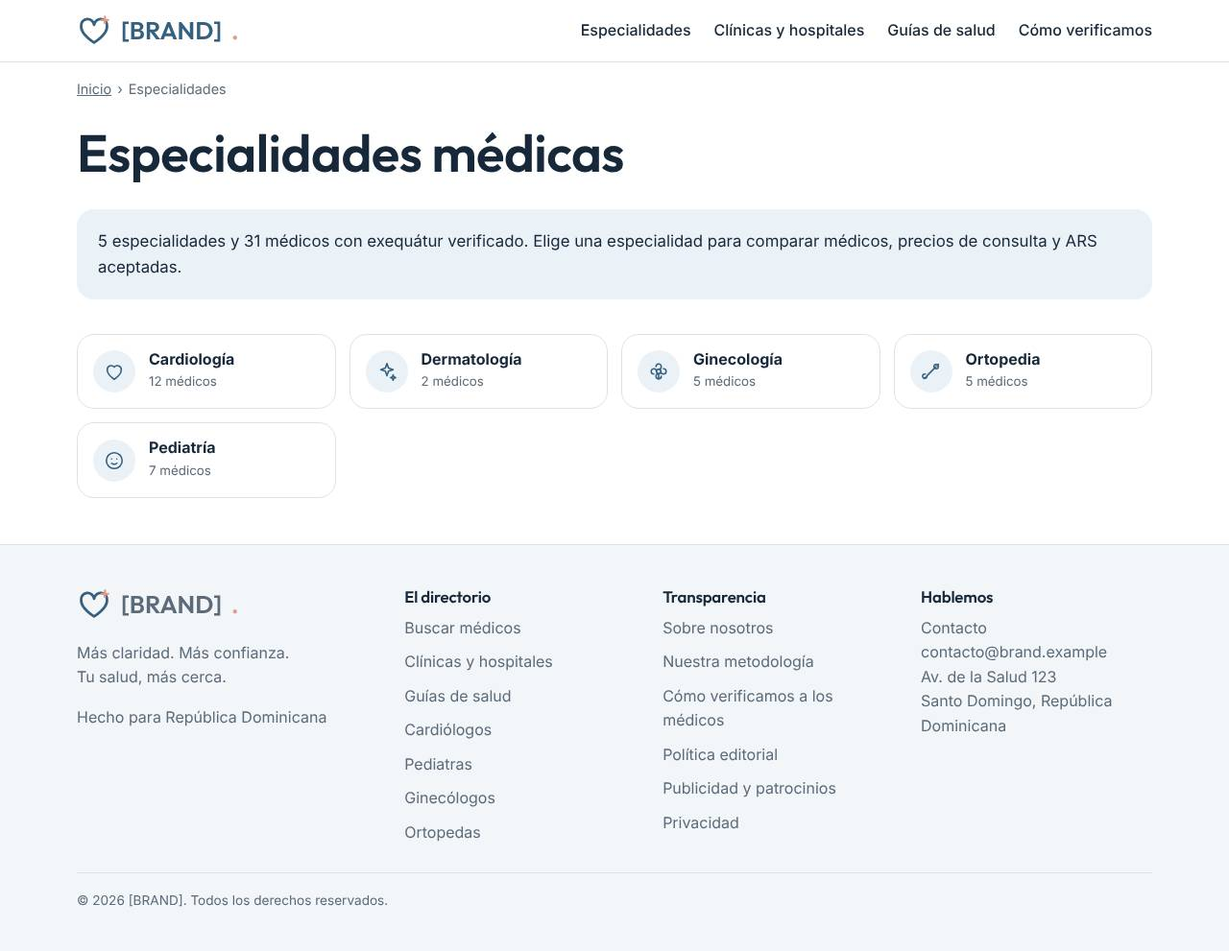
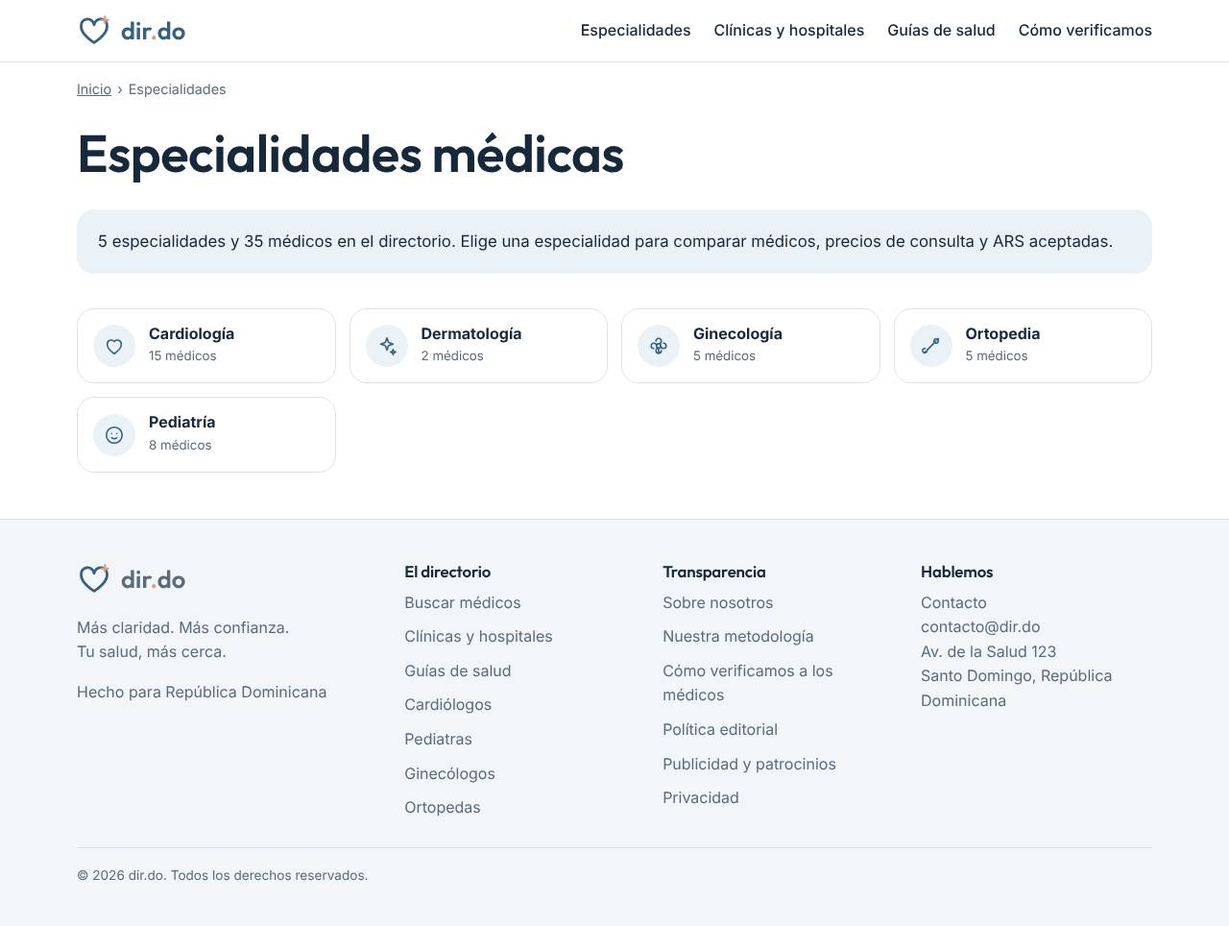
Brand and domain: dir.do (wordmark with coral dot), honest home copy for verified vs informational profiles, regenerated mockups
Claude-Session: https://claude.ai/code/session_01DZcLDKAdGPDCpaXuxE1Ynz

diff --git a/src/data/trust.ts b/src/data/trust.ts
@@ -9,14 +9,14 @@ export const trustPages: TrustPageData[] = [
   { slug: 'metodologia', title: 'Nuestra metodología', description: 'Cómo recopilamos, calculamos y actualizamos los datos del directorio.',
     body: ['Los precios, ARS y horarios son declarados por cada profesional o centro y revisados por nuestro equipo.', 'Cuando mostramos estadísticas (por ejemplo, el rango de precios de una ciudad), indicamos el tamaño de la muestra (n) y la fecha de los datos.', 'Una página de especialidad y ciudad solo se publica para buscadores cuando tiene al menos 5 profesionales verificados.'] },
   { slug: 'como-verificamos', title: 'Cómo verificamos a los médicos', description: 'Revisamos exequátur, especialidad y datos de contacto antes de publicar un perfil.',
-    body: ['Verificamos el exequátur de cada profesional con el servicio oficial de consulta de exequátur y guardamos la fecha y la evidencia de la revisión.', 'Revisamos la pertenencia al Colegio Médico Dominicano cuando aplica y confirmamos los datos de contacto.', 'Repetimos la verificación al menos cada 6 meses. Los perfiles con revisión vencida se marcan para actualización.'] },
+    body: ['En el directorio hay dos tipos de perfil. Los perfiles verificados son de médicos afiliados cuyo exequátur comprobamos; muestran foto, la insignia «Médico verificado» y aparecen primero. Los perfiles informativos se crean con datos públicos (por ejemplo, el directorio de una clínica o de una sociedad médica), no han sido verificados, no muestran foto y siempre indican su fuente y la fecha de consulta.', 'Verificamos el exequátur de cada profesional con el servicio oficial de consulta de exequátur y guardamos la fecha y la evidencia de la revisión.', 'Revisamos la pertenencia al Colegio Médico Dominicano cuando aplica y confirmamos los datos de contacto.', 'Repetimos la verificación al menos cada 6 meses. Los perfiles con revisión vencida se marcan para actualización.', 'Si eres uno de los profesionales de un perfil informativo, puedes solicitar su verificación, corrección o retiro desde la página de contacto.'] },
   { slug: 'politica-editorial', title: 'Política editorial', description: 'Principios editoriales, revisión médica y correcciones.',
     body: ['Las guías de salud son informativas, no sustituyen la consulta médica y son revisadas por un profesional con exequátur verificado, cuyo nombre y fecha de revisión se publican.', 'Citamos nuestras fuentes y corregimos los errores en cuanto los detectamos. Escríbenos desde la página de contacto.'] },
   { slug: 'publicidad-y-patrocinios', title: 'Publicidad y patrocinios', description: 'Cómo identificamos los espacios patrocinados.',
     body: ['Los espacios pagados siempre están identificados con la etiqueta «Patrocinado» y un estilo visual distinto.', 'Los patrocinios nunca forman parte de listas ordenadas ni influyen en comparaciones. Los enlaces patrocinados a sitios externos usan rel="sponsored".'] },
   { slug: 'privacidad', title: 'Política de privacidad', description: 'Cómo tratamos los datos personales conforme a la Ley 172-13.',
     body: ['Este texto es provisional y debe ser revisado por un abogado dominicano antes del lanzamiento (Ley 172-13 sobre Protección de Datos Personales).', 'No mostramos la cédula de los profesionales. Guardamos únicamente un hash para evitar duplicados.'] },
-  { slug: 'contacto', title: 'Contacto', description: `Escríbenos a ${NAP.email}.`,
+  { slug: 'contacto', title: 'Contacto', description: `Escríbenos a ${NAP.email} para consultas, correcciones de perfiles, verificación o retiro de datos, y licencias de datos.`,
     body: [`Correo: ${NAP.email}`, `Dirección: ${NAP.street}, ${NAP.locality}, ${NAP.countryName}`, 'Si eres profesional de la salud y quieres reclamar o corregir tu perfil, escríbenos con tu número de exequátur.'] },
 ];
 export const getTrustPage = (slug: string) => trustPages.find((p) => p.slug === slug) ?? null;

diff --git a/tests/lib.test.ts b/tests/lib.test.ts
@@ -76,16 +76,16 @@ test('physician JSON-LD: required fields, no invented data, safe serialization',
 
 test('robots.txt: prototype blocks all; production allows named bots and repeats filter disallows', () => {
   assert.match(buildRobotsTxt('prototype'), /Disallow: \/\n/);
-  const r = buildRobotsTxt('production', 'https://short.do');
+  const r = buildRobotsTxt('production', 'https://dir.do');
   for (const b of [...SEARCH_BOTS, ...AI_SEARCH_BOTS, ...AI_TRAINING_BOTS]) assert.match(r, new RegExp(`User-agent: ${b}\\nAllow: /\\nDisallow: /buscar`));
-  assert.match(r, /Sitemap: https:\/\/short\.do\/sitemap-index\.xml/);
+  assert.match(r, /Sitemap: https:\/\/dir\.do\/sitemap-index\.xml/);
 });
 
 test('sitemaps contain only indexable URLs with real lastmod', () => {
   const docUrls = doctorUrls().map((u) => u.loc);
   assert.ok(!docUrls.some((u) => u.includes('datos-minimos') || u.includes('sin-verificar')));
   const hubs = hubUrls().map((u) => u.loc);
-  assert.ok(hubs.includes('https://short.do/cardiologos/santo-domingo'));
+  assert.ok(hubs.includes('https://dir.do/cardiologos/santo-domingo'));
   assert.ok(!hubs.some((u) => u.includes('dermatologos')), 'hubs with < 5 doctors are excluded');
   for (const [, urls] of sitemapFiles()) for (const u of urls) assert.match(u.lastmod, /^\d{4}-\d{2}-\d{2}$/);
   assert.ok(renderUrlset(doctorUrls()).includes('<lastmod>'));
@@ -109,7 +109,7 @@ test('bot classification: AI search/training/user agents are distinguished', () 
 import { parseCsv, summarize } from '../src/lib/ai-visibility.ts';
 test('AI visibility CSV: validates prompt ids and computes citation rate', () => {
   const ids = new Set(['es-1', 'es-2']);
-  const csv = 'run_month,engine,prompt_id,cited,cited_url,position,accuracy\n2026-10,chatgpt,es-1,1,https://short.do/x,2,accurate\n2026-10,chatgpt,es-2,0,,,\n';
+  const csv = 'run_month,engine,prompt_id,cited,cited_url,position,accuracy\n2026-10,chatgpt,es-1,1,https://dir.do/x,2,accurate\n2026-10,chatgpt,es-2,0,,,\n';
   const { rows, errors } = parseCsv(csv, ids);
   assert.deepEqual(errors, []);
   assert.deepEqual(summarize(rows)[0], { month: '2026-10', engine: 'chatgpt', prompts: 2, cited: 1, citationRate: 50, avgPosition: 2, inaccurate: 0 });
@@ -135,7 +135,7 @@ test('pagination: >20 doctors yields pages with self paths, sitemap entries, and
     assert.equal(resolveHub(['cardiologos', 'santo-domingo', 'pagina', '3']).status, 'not_found');
     assert.equal(hubPath(p1.status === 'ok' ? p1.query : (null as any), 2), '/cardiologos/santo-domingo/pagina/2');
     const urls = hubUrls().map((u) => u.loc);
-    assert.ok(urls.includes('https://short.do/cardiologos/santo-domingo/pagina/2'));
+    assert.ok(urls.includes('https://dir.do/cardiologos/santo-domingo/pagina/2'));
     // page-2 items continue the ItemList numbering and don't repeat page 1
     const ids1 = new Set(p1.status === 'ok' ? p1.items.map((v) => v.doctor.id) : []);
     assert.ok(p2.status === 'ok' && p2.items.every((v) => !ids1.has(v.doctor.id)));
@@ -155,7 +155,7 @@ test('fact summary states every schedule block accurately (no mixing hours acros
 test('physician JSON-LD image: relative photo paths become absolute, absolute URLs stay untouched', () => {
   const v = structuredClone(getDoctorBySlug('dra-maria-perez-cardiologa')!);
   v.doctor.photo_url = '/img/doctors/x.webp';
-  assert.equal((physicianJsonLd(v) as any).image, 'https://short.do/img/doctors/x.webp');
+  assert.equal((physicianJsonLd(v) as any).image, 'https://dir.do/img/doctors/x.webp');
   v.doctor.photo_url = 'https://cdn.example.com/a.jpg';
   assert.equal((physicianJsonLd(v) as any).image, 'https://cdn.example.com/a.jpg');
   v.doctor.photo_url = null;

diff --git a/src/config.ts b/src/config.ts
@@ -1,8 +1,10 @@
 // Runtime env first (so the host can flip SITE_MODE without a rebuild), build-time env as fallback.
 const env = (k: string): string | undefined => (typeof process !== 'undefined' ? process.env[k] : undefined) ?? (import.meta as any).env?.[k];
 
-export const BRAND = '[BRAND]';
-export const SITE_URL = (env('PUBLIC_SITE_URL') ?? 'https://short.do').replace(/\/$/, '');
+export const BRAND = 'dir.do';
+/** Wordmark parts: the dot in "dir.do" is the coral dot of the logo; a brand without a dot gets a trailing coral dot. */
+export const BRAND_PARTS: [string, string] = BRAND.includes('.') ? [BRAND.slice(0, BRAND.indexOf('.')), BRAND.slice(BRAND.indexOf('.') + 1)] : [BRAND, ''];
+export const SITE_URL = (env('PUBLIC_SITE_URL') ?? 'https://dir.do').replace(/\/$/, '');
 // prototype => seed data: whole site noindex + robots Disallow:/ (never let illustrative data get indexed)
 export const SITE_MODE: 'prototype' | 'production' = env('SITE_MODE') === 'production' ? 'production' : 'prototype';
 export const PUBLISH_EXEQUATUR_IDENTIFIER = env('PUBLISH_EXEQUATUR_IDENTIFIER') === 'true';
@@ -15,7 +17,7 @@ export const SITEMAP_URLS_PER_FILE = 50000;
 
 export const NAP = {
   name: BRAND,
-  email: 'contacto@brand.example',
+  email: 'contacto@dir.do',
   street: 'Av. de la Salud 123',
   locality: 'Santo Domingo',
   country: 'DO',

diff --git a/src/data/seed.ts b/src/data/seed.ts
@@ -170,7 +170,7 @@ export const guides: Guide[] = [
     category: 'Costos', icon: 'heart', read_minutes: 4, reviewer_doctor_id: reviewer.id, reviewed_at: '2026-10-01',
     answer_summary: 'El precio de la consulta depende de la ciudad, el centro médico y la experiencia del especialista. Abajo mostramos el rango real de los perfiles verificados del directorio, con su fecha y tamaño de muestra.',
     body: [
-      'Los precios que ves en [BRAND] son los que cada médico o centro declara y que verificamos al momento de la revisión. Pueden cambiar; confirma siempre con el consultorio antes de tu cita.',
+      'Los precios que ves en dir.do son los que cada médico o centro declara y que verificamos al momento de la revisión. Pueden cambiar; confirma siempre con el consultorio antes de tu cita.',
       'Si tienes seguro (ARS), la consulta puede estar cubierta total o parcialmente según tu plan. Pregunta por el copago antes de agendar.',
     ],
     sources: [{ title: 'Ministerio de Salud Pública de la República Dominicana', url: 'https://www.msp.gob.do' }],

diff --git a/tests/nightly.test.ts b/tests/nightly.test.ts
@@ -36,11 +36,11 @@ test('diff: pings new, changed, de-indexed and removed URLs only', () => {
 test('IndexNow batches at 10,000 URLs and sends key + keyLocation', async () => {
   const calls: any[] = [];
   const fakeFetch = (async (_u: string, init: any) => { calls.push(JSON.parse(init.body)); return { status: 200 }; }) as any;
-  const urls = Array.from({ length: 10_001 }, (_, i) => `https://short.do/p${i}`);
-  const r = await pingIndexNow(urls, { host: 'short.do', key: 'abc123', fetchImpl: fakeFetch });
+  const urls = Array.from({ length: 10_001 }, (_, i) => `https://dir.do/p${i}`);
+  const r = await pingIndexNow(urls, { host: 'dir.do', key: 'abc123', fetchImpl: fakeFetch });
   assert.equal(calls.length, 2);
   assert.equal(calls[0].urlList.length, 10_000);
-  assert.equal(calls[0].keyLocation, 'https://short.do/abc123.txt');
+  assert.equal(calls[0].keyLocation, 'https://dir.do/abc123.txt');
   assert.deepEqual(r.status, [200, 200]);
 });
 

diff --git a/SPEC.md b/SPEC.md
@@ -2,7 +2,7 @@
 
 Build spec for a doctor directory in the Dominican Republic, optimized for search engines (Google, Bing) and AI answer engines (Google AI Overviews/AI Mode, ChatGPT, Perplexity, Claude, Gemini, Copilot).
 
-- **Brand:** `[BRAND]` · **Domain:** `[short.do]` (.do ccTLD)
+- **Brand:** `dir.do` · **Domain:** `dir.do` (.do ccTLD)
 - **Language:** Spanish (`es-DO`) first; English (`/en/`) section later
 - **Aesthetics:** the Lovable mockup in `docs/design/` defines the look (palette, typography, cards, spacing, tone) and is matched closely. It is not a code source: markup, structure and stack are built from scratch for SEO and AI-crawler needs
 - **Reviews:** NOT in v1. Reserve the space and data model; spec in §12
@@ -39,7 +39,7 @@ Supporting choices:
 - Image pipeline: AVIF/WebP, responsive `srcset`, explicit width/height.
 - Admin panel (simple, internal, `noindex`): edit doctors, mark verification, toggle index status, publish guides; every save purges affected URLs and queues an IndexNow ping.
 
-**Acceptance test:** `curl -A "OAI-SearchBot" https://[short.do]/dra-maria-perez-cardiologa` must return full HTML containing the doctor's name, fact table, contact info and JSON-LD, with zero JS needed.
+**Acceptance test:** `curl -A "OAI-SearchBot" https://dir.do/dra-maria-perez-cardiologa` must return full HTML containing the doctor's name, fact table, contact info and JSON-LD, with zero JS needed.
 
 ---
 
@@ -150,7 +150,7 @@ Otherwise `noindex,follow` (still reachable through internal links).
 ### 4.4 Tags on every page
 
 ```html
-<link rel="canonical" href="https://[short.do]/[self-path]">   <!-- self-referencing, absolute -->
+<link rel="canonical" href="https://dir.do/[self-path]">   <!-- self-referencing, absolute -->
 <meta name="robots" content="index,follow">                     <!-- or noindex,follow per rules -->
 ```
 - Paginated pages: self-canonical (page 2 canonical → page 2). Do NOT canonicalize to page 1.
@@ -161,7 +161,7 @@ Otherwise `noindex,follow` (still reachable through internal links).
 ## 5. Page templates — technical requirements
 
 ### 5.1 Doctor profile
-- `<title>`: `Dra. María Pérez, Cardióloga en Santo Domingo | [BRAND]`
+- `<title>`: `Dra. María Pérez, Cardióloga en Santo Domingo | dir.do`
 - Meta description: built from facts (specialty, sector, ARS, fee), ≤ 155 chars.
 - H1: full legal name + specialty.
 - Breadcrumbs (visible + `BreadcrumbList`).
@@ -176,7 +176,7 @@ Otherwise `noindex,follow` (still reachable through internal links).
 - JSON-LD: §6.1.
 
 ### 5.2 Specialty × city (× sector / ARS) hub
-- `<title>`: `Cardiólogos en Santo Domingo (42 verificados) | [BRAND]`
+- `<title>`: `Cardiólogos en Santo Domingo (42 médicos) | dir.do`
 - H1 + **data-driven intro** unique to this page: doctor count, fee range (min/median/max), ARS distribution, top facilities, languages. This is what keeps hubs from being doorway pages.
 - Comparison `<table>`: doctor (link), sub-specialty, sector, ARS, fee, next availability.
 - Doctor cards: top 20 + pagination with plain `<a href>` links.
@@ -216,10 +216,10 @@ Rules: JSON-LD rendered server-side in `<head>` or `<body>`; every value must ma
 {
   "@context": "https://schema.org",
   "@type": "IndividualPhysician",
-  "@id": "https://[short.do]/dra-maria-perez-cardiologa#physician",
+  "@id": "https://dir.do/dra-maria-perez-cardiologa#physician",
   "name": "Dra. María Pérez",
-  "url": "https://[short.do]/dra-maria-perez-cardiologa",
-  "image": "https://[short.do]/img/dra-maria-perez.webp",
+  "url": "https://dir.do/dra-maria-perez-cardiologa",
+  "image": "https://dir.do/img/dra-maria-perez.webp",
   "description": "Cardióloga en Santo Domingo (Piantini)...",
   "medicalSpecialty": "https://schema.org/Cardiovascular",
   "knowsLanguage": ["es", "en"],
@@ -235,7 +235,7 @@ Rules: JSON-LD rendered server-side in `<head>` or `<body>`; every value must ma
   "geo": { "@type": "GeoCoordinates", "latitude": 18.47, "longitude": -69.94 },
   "practicesAt": [{
     "@type": "MedicalClinic",
-    "@id": "https://[short.do]/centro/centro-medico-x#org",
+    "@id": "https://dir.do/centro/centro-medico-x#org",
     "name": "Centro Médico X"
   }],
   "hospitalAffiliation": [{ "@type": "Hospital", "name": "Hospital Y" }],
@@ -271,13 +271,13 @@ Rules: JSON-LD rendered server-side in `<head>` or `<body>`; every value must ma
     "@context": "https://schema.org",
     "@type": "CollectionPage",
     "name": "Cardiólogos en Santo Domingo",
-    "url": "https://[short.do]/cardiologos/santo-domingo/",
+    "url": "https://dir.do/cardiologos/santo-domingo/",
     "about": { "@type": "MedicalSpecialty", "name": "Cardiología" },
     "mainEntity": {
       "@type": "ItemList",
       "numberOfItems": 42,
       "itemListElement": [
-        { "@type": "ListItem", "position": 1, "url": "https://[short.do]/dra-maria-perez-cardiologa" }
+        { "@type": "ListItem", "position": 1, "url": "https://dir.do/dra-maria-perez-cardiologa" }
       ]
     }
   },
@@ -285,9 +285,9 @@ Rules: JSON-LD rendered server-side in `<head>` or `<body>`; every value must ma
     "@context": "https://schema.org",
     "@type": "BreadcrumbList",
     "itemListElement": [
-      { "@type": "ListItem", "position": 1, "name": "Inicio", "item": "https://[short.do]/" },
-      { "@type": "ListItem", "position": 2, "name": "Cardiólogos", "item": "https://[short.do]/cardiologos/" },
-      { "@type": "ListItem", "position": 3, "name": "Santo Domingo", "item": "https://[short.do]/cardiologos/santo-domingo/" }
+      { "@type": "ListItem", "position": 1, "name": "Inicio", "item": "https://dir.do/" },
+      { "@type": "ListItem", "position": 2, "name": "Cardiólogos", "item": "https://dir.do/cardiologos/" },
+      { "@type": "ListItem", "position": 3, "name": "Santo Domingo", "item": "https://dir.do/cardiologos/santo-domingo/" }
     ]
   }
 ]
@@ -299,13 +299,13 @@ Rules: JSON-LD rendered server-side in `<head>` or `<body>`; every value must ma
   "@context": "https://schema.org",
   "@type": "MedicalWebPage",
   "headline": "¿Cuánto cuesta una consulta con cardiólogo en RD?",
-  "url": "https://[short.do]/guia/...",
+  "url": "https://dir.do/guia/...",
   "audience": { "@type": "Patient" },
   "about": { "@type": "MedicalSpecialty", "name": "Cardiología" },
   "lastReviewed": "2026-10-01",
-  "reviewedBy": { "@type": "IndividualPhysician", "@id": "https://[short.do]/dr-x#physician", "name": "Dr. X" },
+  "reviewedBy": { "@type": "IndividualPhysician", "@id": "https://dir.do/dr-x#physician", "name": "Dr. X" },
   "citation": ["https://source-1", "https://source-2"],
-  "publisher": { "@id": "https://[short.do]/#org" }
+  "publisher": { "@id": "https://dir.do/#org" }
 }
 ```
 `FAQPage` markup: only where Q&A is visible on page. FAQ rich results were retired by Google in 2026 — keep it only as harmless structure, not as a KPI.
@@ -315,10 +315,10 @@ Rules: JSON-LD rendered server-side in `<head>` or `<body>`; every value must ma
 {
   "@context": "https://schema.org",
   "@type": "Organization",
-  "@id": "https://[short.do]/#org",
-  "name": "[BRAND]",
-  "url": "https://[short.do]/",
-  "logo": "https://[short.do]/logo.png",
+  "@id": "https://dir.do/#org",
+  "name": "dir.do",
+  "url": "https://dir.do/",
+  "logo": "https://dir.do/logo.png",
   "address": { "@type": "PostalAddress", "addressLocality": "Santo Domingo", "addressCountry": "DO" },
   "sameAs": ["[Instagram]", "[LinkedIn]", "[YouTube]", "[Wikidata — later]"]
 }
@@ -374,7 +374,7 @@ Disallow: /*?*genero=
 Disallow: /*?*precio=
 Disallow: /*?*disponibilidad=
 
-Sitemap: https://[short.do]/sitemap-index.xml
+Sitemap: https://dir.do/sitemap-index.xml
 ```
 Note: a crawler matching a specific `User-agent` group ignores the `*` group, so if filter params must be blocked for named bots too, repeat the `Disallow` lines in each group (or generate the file programmatically).
 
@@ -413,9 +413,9 @@ Note: a crawler matching a specific `User-agent` group ignores the `*` group, so
 - `/en/` subfolder mirroring Spanish paths (`/en/dra-maria-perez-cardiologa`).
 - hreflang on both versions, reciprocal and self-referencing:
 ```html
-<link rel="alternate" hreflang="es-DO" href="https://[short.do]/dra-maria-perez-cardiologa">
-<link rel="alternate" hreflang="en" href="https://[short.do]/en/dra-maria-perez-cardiologa">
-<link rel="alternate" hreflang="x-default" href="https://[short.do]/dra-maria-perez-cardiologa">
+<link rel="alternate" hreflang="es-DO" href="https://dir.do/dra-maria-perez-cardiologa">
+<link rel="alternate" hreflang="en" href="https://dir.do/en/dra-maria-perez-cardiologa">
+<link rel="alternate" hreflang="x-default" href="https://dir.do/dra-maria-perez-cardiologa">
 ```
 - Translate only: English-speaking doctors' profiles, tourism cities (Punta Cana, Puerto Plata, Santo Domingo), dental/plastic/bariatric/fertility hubs, cost guides. No bulk machine translation without review.
 
@@ -430,7 +430,7 @@ Note: a crawler matching a specific `User-agent` group ignores the `*` group, so
   ```
 - Events: `whatsapp_click`, `phone_click`, `map_open`, `website_click`, `filter_use`, `search`.
 - **Server/CDN logs**: daily counts by user agent (Googlebot, Bingbot, OAI-SearchBot, ChatGPT-User, Claude-*, PerplexityBot…), 4xx/403 rates per bot. Alert if AI bots get 403s.
-- **AI visibility panel**: monthly run of a fixed list of ~150 Spanish + 50 English prompts on ChatGPT, Perplexity, Gemini, Claude, Copilot, Google AI Mode; log whether [BRAND] is cited, which URL, position, and factual accuracy. Store in a table for trend charts.
+- **AI visibility panel**: monthly run of a fixed list of ~150 Spanish + 50 English prompts on ChatGPT, Perplexity, Gemini, Claude, Copilot, Google AI Mode; log whether dir.do is cited, which URL, position, and factual accuracy. Store in a table for trend charts.
 - **Internal dashboard**: verified doctors, % claimed, indexable pages by type, overdue re-verifications.
 
 ---
@@ -450,12 +450,12 @@ consents
 Technical rules for later:
 - Only verified reviews count toward rating and go into JSON-LD (`aggregateRating`, `review`); unverified are labeled and excluded.
 - Mark up only reviews visible on the page. Never import or mark up Google reviews.
-- Reviews on [short.do] are eligible for review stars (third-party site). A doctor-site embed widget must NOT output review structured data.
+- Reviews on dir.do are eligible for review stars (third-party site). A doctor-site embed widget must NOT output review structured data.
 - No review gating; negative reviews never removed for being negative; one public doctor reply per review.
 - Each new review updates `<lastmod>` and pings IndexNow.
 - Consent capture and deletion flows per Ley 172-13 (legal review required before launch).
 
-Doctor badge widget (phase 2): static HTML snippet with a plain link to the profile, e.g. "Médico verificado en [BRAND]" — no structured data in the snippet.
+Doctor badge widget (phase 2): static HTML snippet with a plain link to the profile, e.g. "Médico verificado en dir.do" — no structured data in the snippet.
 
 ---
 

diff --git a/docs/launch.md b/docs/launch.md
@@ -5,11 +5,11 @@ Everything else is automated (see README). In order:
 1. **Supabase**: create a project; run `db/migrations/001_core.sql`, `003_ai_visibility.sql` and `004_listing_tiers.sql` (not `002_reviews_reserved.sql`). Set `DATABASE_URL` on the host and as a GitHub secret.
 2. **Reference data + real doctors**: run `db/reference/001_reference_data.sql` (specialties, cities, sectors, ARS; review ARS names), then import doctors with `scripts/import-doctors.ts` (see `docs/import.md`). Imports are unverified/unpublished until each exequátur is verified in `/admin`.
    **Real data**: import doctors (verified exequátur only). Until then keep `SITE_MODE=prototype`. Replace seed copy: trust pages (`src/data/trust.ts`), guides (need a real physician reviewer), footer NAP (`src/config.ts`) — identical to `/contacto`.
-3. **Domain + brand**: set `PUBLIC_SITE_URL`, replace `[BRAND]` (`src/config.ts`, `public/logo.svg`, titles), set real social `sameAs` in `siteJsonLd()`.
+3. **Domain**: the site is **dir.do** (brand and domain are set in `src/config.ts`). Point the DNS of `dir.do` at your host, set `PUBLIC_SITE_URL=https://dir.do`, create the `contacto@dir.do` mailbox (or change `NAP.email` in `src/config.ts`), put the real street address in `NAP`, and add real social links in `siteJsonLd()`.
 4. **Hosting**: deploy the Node server (`npm run build && npm start`) behind a CDN near Miami. CDN must honor `Cache-Control: s-maxage`; set `PURGE_WEBHOOK_URL` if you want purges after admin writes.
-5. **WAF / bot protection**: allowlist the crawlers in SPEC §7.1 (verify by published IP ranges); never challenge them. Test: `curl -A "OAI-SearchBot" https://[short.do]/` → 200.
+5. **WAF / bot protection**: allowlist the crawlers in SPEC §7.1 (verify by published IP ranges); never challenge them. Test: `curl -A "OAI-SearchBot" https://dir.do/` → 200.
 6. **Secrets/env**: `ADMIN_PASSWORD` (+`ADMIN_USER`), `INDEXNOW_KEY`, `PUBLIC_GA4_ID`, `SITE_MODE=production` (last, after steps 1–5).
 7. **Search consoles**: verify GSC + Bing Webmaster Tools; submit `/sitemap-index.xml`.
 8. **GA4**: create the "AI Assistants" channel group (regex in `docs/analytics.md`).
 9. **Legal (Dominican counsel)**: privacy policy (Ley 172-13), cookie/consent approach for GA4, whether to publish exequátur numbers (`PUBLISH_EXEQUATUR_IDENTIFIER`), CMD ethics code on advertising, before any reviews launch.
-10. **Run the gates against production**: `BASE=https://[short.do] node scripts/check-html.mjs`, `scripts/crawl.mjs`, `scripts/lighthouse.mjs`; re-check the fast-moving items in SPEC §14.
+10. **Run the gates against production**: `BASE=https://dir.do node scripts/check-html.mjs`, `scripts/crawl.mjs`, `scripts/lighthouse.mjs`; re-check the fast-moving items in SPEC §14.

diff --git a/docs/design/README.md b/docs/design/README.md
@@ -4,7 +4,7 @@ Screenshots of the Lovable prototype (`lovable.dev`), top to bottom. They define
 
 | File | Section |
 |---|---|
-| `home-01.png` | Header (heart-plus logo + `[BRAND].`, hamburger), eyebrow pill "Tu directorio médico en República Dominicana", H1 "Encuentra el médico adecuado. **Cuida lo que más importa.**" (second line in blue with coral underline), subcopy, search card: Especialidad / Ciudad / Tu seguro (opcional, ARS) + "Buscar médico" button |
+| `home-01.png` | Header (heart-plus logo + `dir.do.`, hamburger), eyebrow pill "Tu directorio médico en República Dominicana", H1 "Encuentra el médico adecuado. **Cuida lo que más importa.**" (second line in blue with coral underline), subcopy, search card: Especialidad / Ciudad / Tu seguro (opcional, ARS) + "Buscar médico" button |
 | `home-02.png` | Quick links ("Cardiología en Santo Domingo", "Pediatría…", "Ginecología…"), trust ticks ("Exequátur verificado", "Información transparente"), "¿Qué especialista necesitas?" grid of 8 specialty cards with icon + doctor count + "Todas las especialidades" link |
 | `home-03.png` | "Tu salud, cerca de ti" city list (Santo Domingo, Santiago, La Romana, San Pedro de Macorís, Punta Cana, Puerto Plata, each with doctor count), trust banner "Tu tranquilidad empieza con información verificada" → "Cómo verificamos a los médicos", "Conoce a nuestros médicos" start (doctor card) |
 | `home-04.png` | Doctor card anatomy: photo, name, specialty, green "Exequátur verificado" badge, sector, ARS ("Humano y otras ARS"), facility, "Consulta desde RD$", "Ver perfil" button. **Sponsored card**: coral border + tint, "Patrocinado" label |

diff --git a/docs/design/mockups/README.md b/docs/design/mockups/README.md
@@ -18,9 +18,11 @@ Full-page captures of every page type, generated from the running site with **il
 | 11 | Guide | `/guia/cuanto-cuesta-consulta-cardiologo` | `src/pages/guia/[slug].astro` |
 | 12 | Trust page | `/como-verificamos` | `src/pages/[slug].astro` + `src/data/trust.ts` |
 | 13 | 404 | any unknown URL | `src/components/NotFound.astro` |
+| 14 | Listed (informational) profile | `/marcos-tejeda-liriano-cardiologia` | `ProfilePage.astro` (listed tier) |
 
 Behaviour worth knowing when reviewing:
 - Clinic pages and the clinics index only list centers that have at least one verified doctor; specialties with no verified doctors are not shown.
 - Hub pages with fewer than 5 doctors render but are `noindex`; with 0 doctors they are a real 404.
 - Sponsored doctors appear in their own labeled block, never inside the ordered table/list.
+- Verified doctors show a photo and a "Médico verificado" badge and sort first; listed doctors show "Perfil informativo", no photo, and their source.
 - On phones the contact / clinic-data panel is moved above the long content.

diff --git a/docs/analytics.md b/docs/analytics.md
@@ -13,7 +13,7 @@ chatgpt\.com|chat\.openai\.com|perplexity\.ai|gemini\.google\.com|claude\.ai|cop
 Place it above "Referral".
 
 ## Search consoles (day 1, manual)
-Verify Google Search Console (Generative AI performance report) and Bing Webmaster Tools (AI Performance report); submit `https://[short.do]/sitemap-index.xml`.
+Verify Google Search Console (Generative AI performance report) and Bing Webmaster Tools (AI Performance report); submit `https://dir.do/sitemap-index.xml`.
 
 ## Crawler logs
 The server prints one JSON line per crawler hit (`{"type":"bot_hit","bot":"OAI-SearchBot","status":200,…}`).

diff --git a/README.md b/README.md
@@ -1,4 +1,4 @@
-# [BRAND] — Doctor directory (DR)
+# dir.do — Doctor directory (DR)
 
 Astro (SSR, CDN-cached) + Postgres. Full requirements: [`SPEC.md`](SPEC.md). Aesthetic reference: [`docs/design/`](docs/design/README.md).
 
